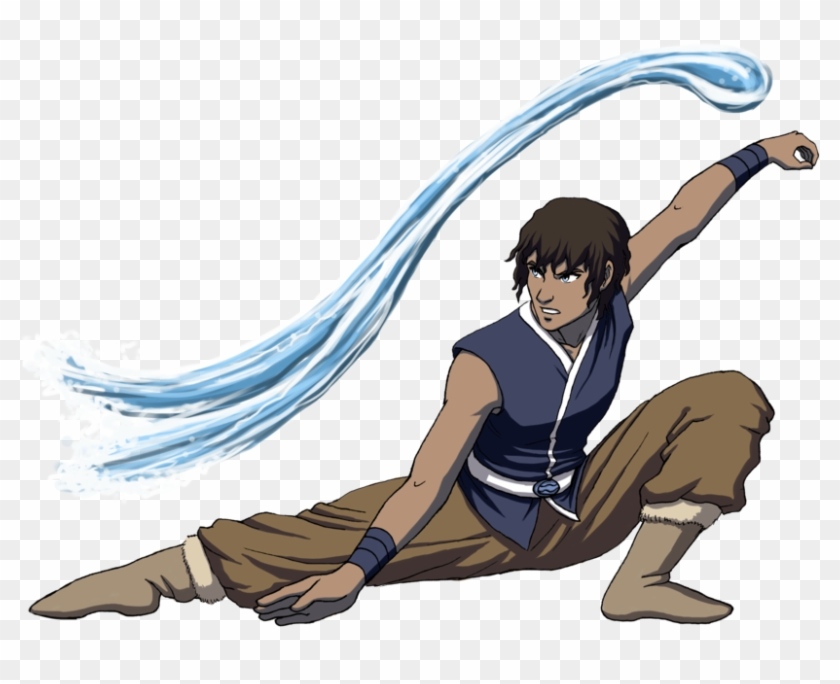
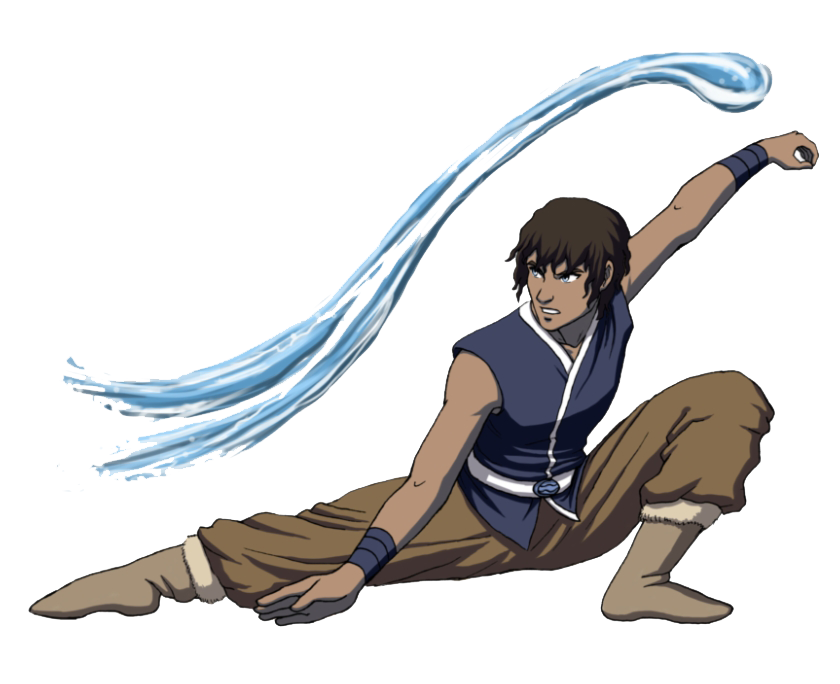
feature- removed enemy image backgrounds
Made the enemy backgrounds transparent and scaled them down

diff --git a/Enemy.py b/Enemy.py
@@ -4,9 +4,13 @@
 import pygame
 
 ### Global Image Variables ###
-fireImg = pygame.image.load('Assets\FireLord.jpg')
+fireImg = pygame.image.load('Assets\FireLord.png')
 waterImg = pygame.image.load('Assets\WaterEnemy.png')
 earthImg = pygame.image.load('Assets\EarthEnemy.png')
+
+fireImg = pygame.transform.scale(fireImg, (100, 150))
+waterImg = pygame.transform.scale(waterImg, (100, 150))
+earthImg = pygame.transform.scale(earthImg, (100, 150))
 
 class Enemy:
     ###Global Class Vars
